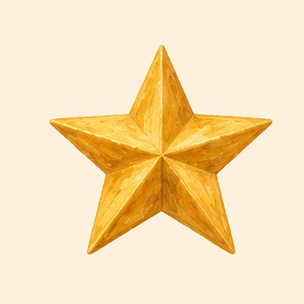
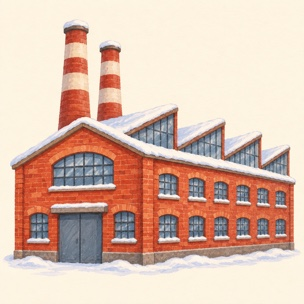
Использовать картинку «завод» с твёрдым З

diff --git a/game.js b/game.js
@@ -1,6 +1,6 @@
 "use strict";
 const el = id => document.getElementById(id);
-const words = {"z": ["Заяц", "Зонт", "Замок", "Забор", "Зуб", "Звезда", "Коза", "Ваза", "Роза", "Берёза", "Медуза", "Стрекоза", "Изба", "Пазлы", "Глаза"], "zh": ["Жук", "Жаба", "Жираф", "Жилет", "Жёлудь", "Журавль", "Ежи", "Лыжи", "Ножи", "Пижама", "Лужа", "Пружина", "Моржи", "Медвежонок", "Баклажан"]};
+const words = {"z": ["Заяц", "Зонт", "Замок", "Забор", "Зуб", "Завод", "Коза", "Ваза", "Роза", "Берёза", "Медуза", "Стрекоза", "Изба", "Пазлы", "Глаза"], "zh": ["Жук", "Жаба", "Жираф", "Жилет", "Жёлудь", "Журавль", "Ежи", "Лыжи", "Ножи", "Пижама", "Лужа", "Пружина", "Моржи", "Медвежонок", "Баклажан"]};
 const pictures = Object.fromEntries(Object.entries(words).map(([group,names]) =>
   [group,names.map((name,i)=>({name,group,src:'assets/'+group+(i+1)+'.jpg'}))]));
 const state = {group:"z", count:5, lives:5, score:0,  locked:false};
